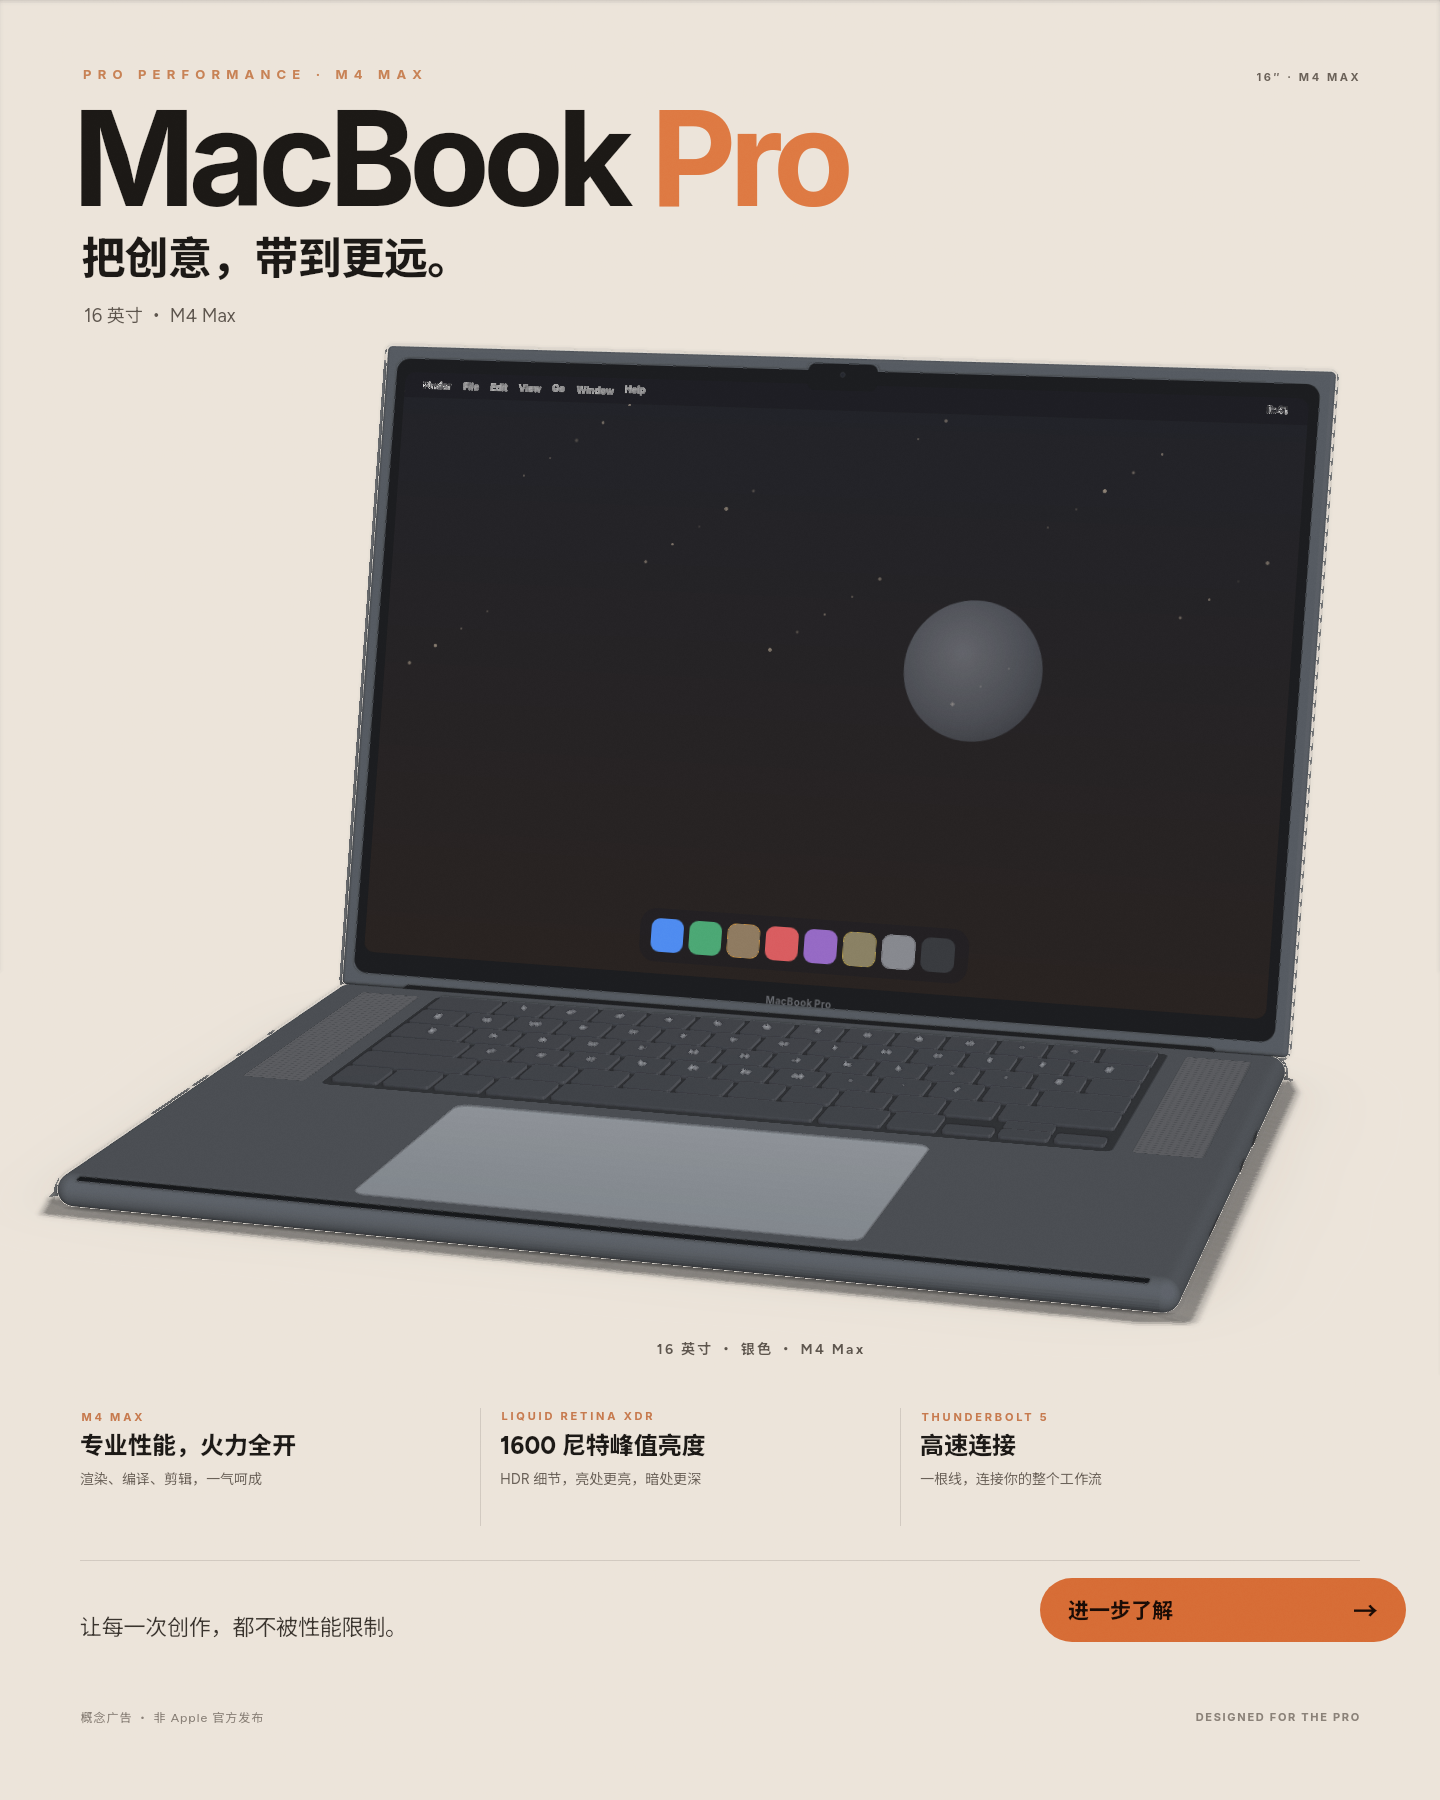
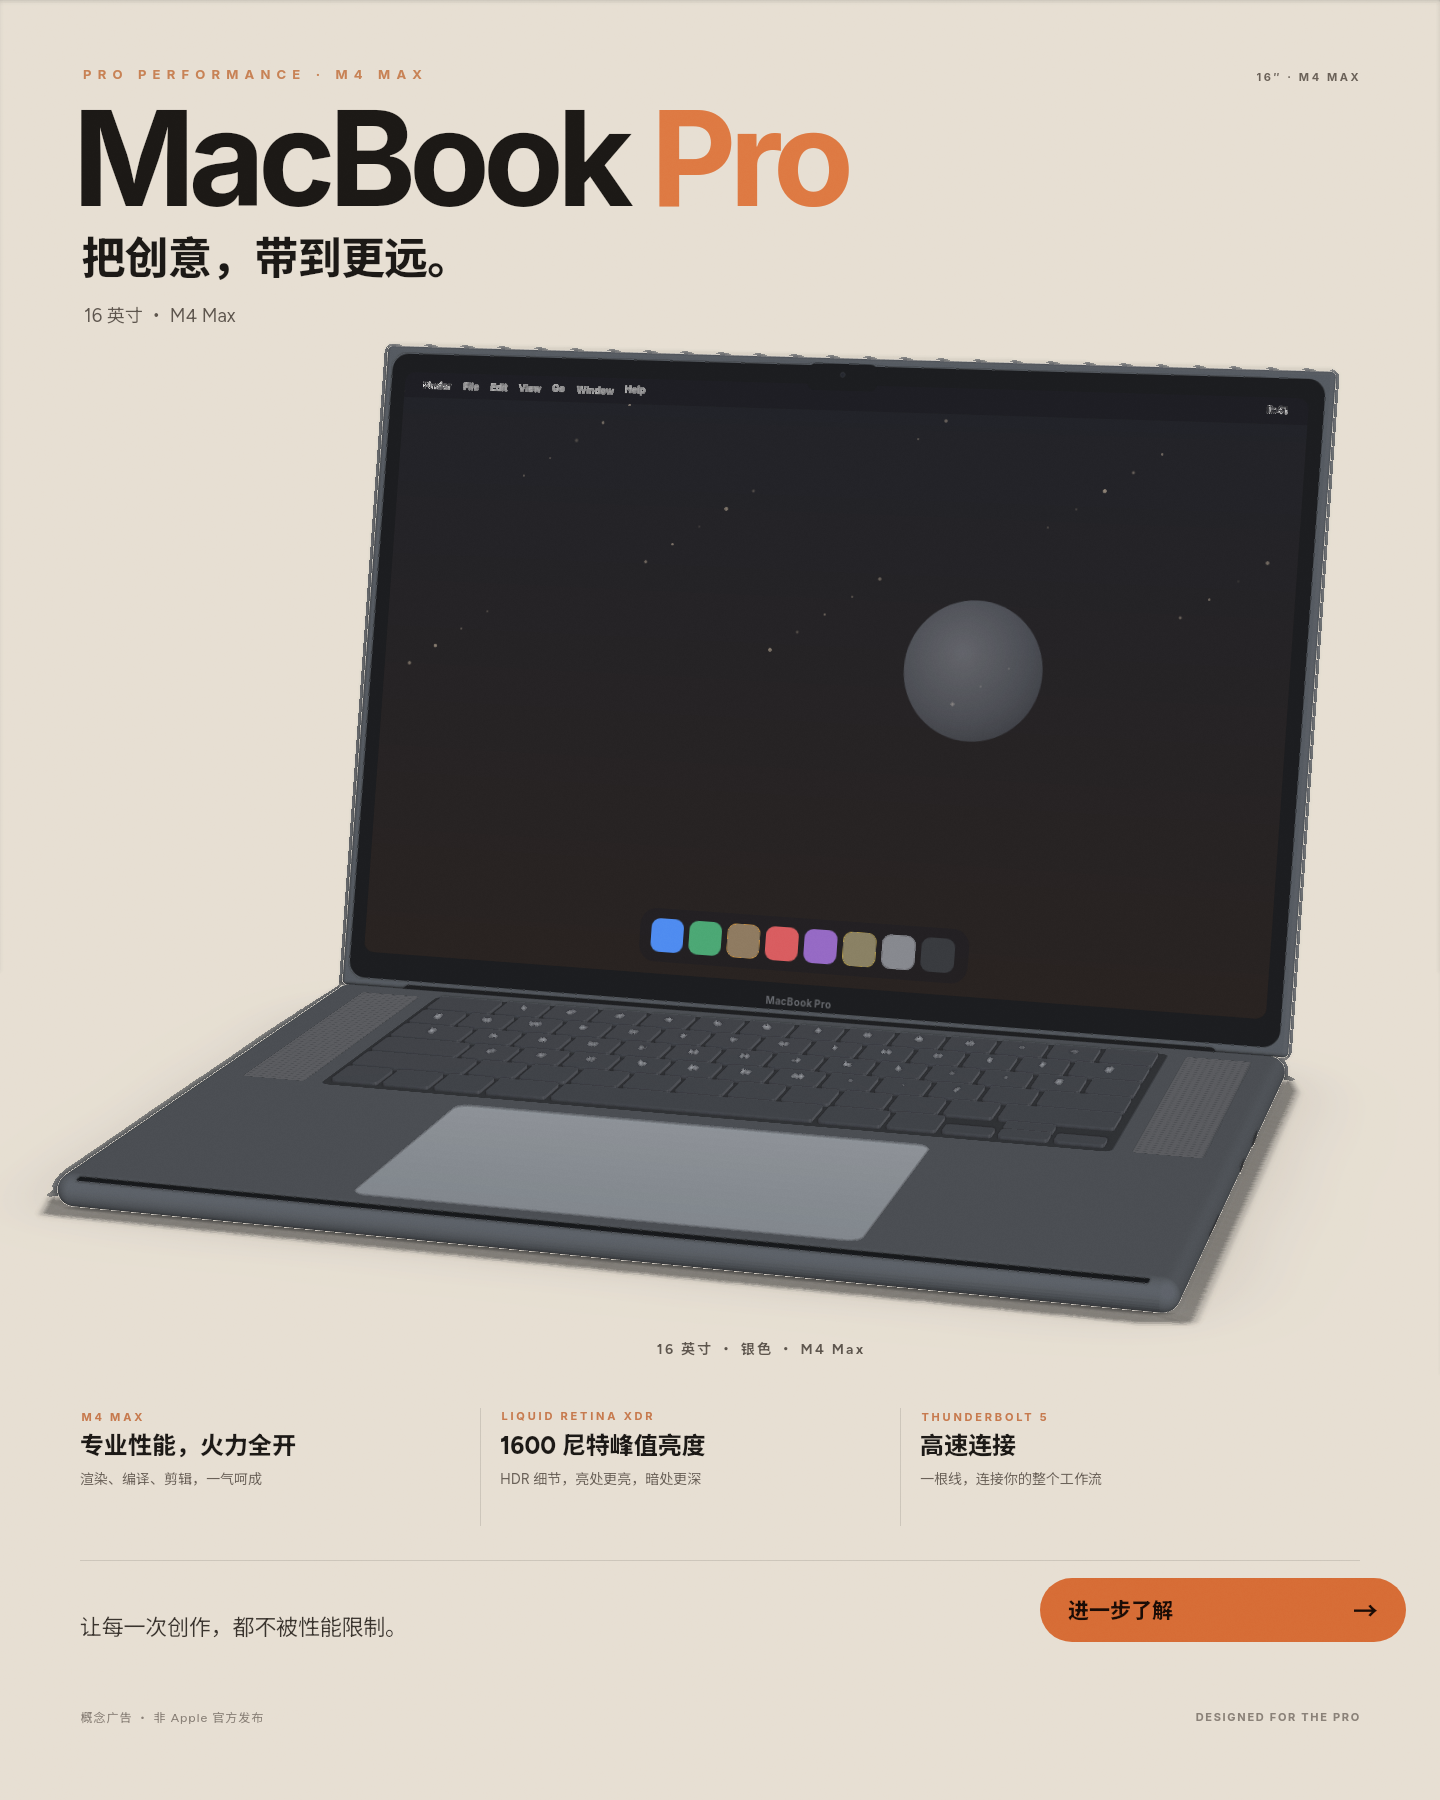
QUALITY-6 tip bez9page: restore bezel 9; mute cream page behind Mac.
Unrim 14px bezel dropped dual-blind mac to 5; quieter page gradient
reduces bright silver|cream AA lip without another shell rim.

diff --git a/examples/macbook-pro.tsx b/examples/macbook-pro.tsx
@@ -3,7 +3,7 @@
 // 银色 16 英寸 MacBook Pro 海报，以后渲染用这个场景。
 // npx tsx src/cli.ts render examples/macbook-pro.tsx -o examples/macbook-pro.png
 // 机身 980 × 670 × 30，屏幕盖 980 × 666 × 10，按 2.755 px/mm 换算。
-// Unrim: drop EDGE rim (edgethin A mac 5); wider dark bezel vs cream page AA.
+// Bez9page: restore pagesoft bezel 9; mute cream page so silver|page AA is less bright.
 const SILVER = '#4e545c'
 const LID_SILVER = '#484e56'
 const SHELL = 'matte'
@@ -197,8 +197,8 @@ function Lid() {
   return (
     <layer x={STAGE.x} y={STAGE.groundY - T + 4 - LID_H} width={W} height={LID_H} origin={`${W / 2} ${LID_H}`} rotateX={LID_TILT} cast-shadow="false">
       <rect width={W} height={LID_H} rx="24" fill={LID_SILVER} material={SHELL} depth={LID_T} z={-LID_T / 2 - 1} stroke="none" cast-shadow="false" />
-      {/* Unrim: push dark bezel out so silver|cream AA rim is thinner (B chrome lip). */}
-      <rect x="14" y="14" width={W - 28} height={LID_H - 28} rx="14" fill="#050608" cast-shadow="false" />
+      {/* Pagesoft bezel 9 — unrim 14px dropped A/B mac to 5. */}
+      <rect x="9" y="9" width={W - 18} height={LID_H - 18} rx="17" fill="#050608" cast-shadow="false" />
       <Wallpaper />
       <rect x={W / 2 - 36} y="7" width="72" height="27" rx="8" fill="#050608" cast-shadow="false" />
       <circle cx={W / 2} cy="18" r="2.4" fill="#0e1018" stroke="#23262e" stroke-width="0.6" />
@@ -210,8 +210,8 @@ function Lid() {
 }
 
 export default (
-  <layer width="1440" height="1800" background="#f6f3ee" color="#1c1916" min-font="10" noise="0.018">
-    <rect x="0" y="0" width="1440" height="1800" fill="linear-gradient(180deg, #f7f4ef 0%, #efe8df 100%)" />
+  <layer width="1440" height="1800" background="#efe8df" color="#1c1916" min-font="10" noise="0.018">
+    <rect x="0" y="0" width="1440" height="1800" fill="linear-gradient(180deg, #f0ebe3 0%, #e4ddd2 100%)" />
     <layer width="1440" height="1800" camera="fov 28, orbit 16 14" light="world" grade="matte 0.85">
       {/* Neutral key — warm hemi alone bounced chrome-orange on the hinge (§9.2). */}
       <light type="hemisphere" intensity="0.32" color="#e2e4e8" ground-color="#aeb2b8" />
@@ -219,7 +219,7 @@ export default (
       <light type="directional" intensity="0.03" color="#d6dae0" x="-280" y="-200" z="400" target="0 0 0" />
       <Lid />
       <Base />
-      <ground y={STAGE.groundY} rotateX="90" fill="#efe8df" shadow-blur="230" shadow-opacity="0.13" />
+      <ground y={STAGE.groundY} rotateX="90" fill="#e4ddd2" shadow-blur="230" shadow-opacity="0.13" />
     </layer>
     <layer x="80" y="66">
       <p style="font-family:Inter; font-size:13px; font-weight:700; letter-spacing:6.2px; color:#c88255">PRO PERFORMANCE · M4 MAX</p>
